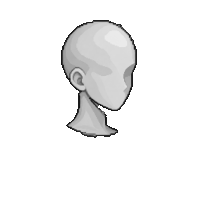
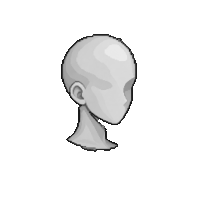
12 male hairstyles as hair value maps fitted to the new base head
Heads moved 14 px down (skull top y=34) so tall hair fits the 200x200 canvas.

Claude-Session: https://claude.ai/code/session_01M8ejkLTav7LEMdtajuWjkN

Changed region(s): [[0.3, 0.09, 0.69, 0.78], [0.51, 0.24, 0.54, 0.27]]

diff --git a/art_source/new_art/portraits/process_hair.py b/art_source/new_art/portraits/process_hair.py
@@ -1,0 +1,135 @@
+"""Cut hairstyles out of a ChatGPT hair sheet (4x3 grid, grayscale hair on a flat green mannequin head, white
+background) and fit each one onto the new base head (<sex>_head_skin.png) as a 200x200 hair value map.
+
+Usage: python3 process_hair.py m    (reads source/hair_m_sheet.png, writes <sex>_hair_<style>.png + preview)
+
+How it works
+- Hair = pixels that are neither white background nor green mannequin, minus the mannequin's own black outline
+  (dark pixels touching both the green head and the white background).
+- Alignment: the mannequin is the same in every cell. Its ear-to-face width and chin are matched to the base head
+  (same landmarks measured on <sex>_head_skin.png), so every style lands on the head the game uses.
+- Values are stretched to the legacy hair convention (full 0-255 range, ~median 150-170) with one stretch per sheet,
+  so styles keep the same brightness relative to each other.
+"""
+import os, sys, json, numpy as np
+from PIL import Image
+from scipy import ndimage as ndi
+
+HERE = os.path.dirname(os.path.abspath(__file__))
+ROOT = os.path.join(HERE, '..', '..', '..')
+STYLES = {'m': ['messy', 'sidepart', 'spiky', 'crewcut', 'slicked', 'shaggy', 'ponytail', 'long',
+                'topknot', 'braided_mohawk', 'wild_mane', 'knight_cut'],
+          'f': ['long', 'ponytail', 'bob', 'braids', 'wavy', 'pixie', 'bun', 'crown_braid',
+                'side_braid', 'twin_buns', 'curly_mane', 'warrior_halfup']}
+
+
+def runs(m, gap=5):
+    idx = np.where(m)[0]
+    sp = np.split(idx, np.where(np.diff(idx) > gap)[0] + 1)
+    return [(int(s[0]), int(s[-1])) for s in sp if len(s) > 20]
+
+
+def landmarks(head):
+    """ear-back x, face-front x and chin y of a head mask (green mannequin or base head skin)."""
+    ys, xs = np.where(head)
+    x0, x1 = xs.min(), xs.max()
+    front = xs > x1 - 0.12 * (x1 - x0)                   # face front columns
+    chin = ys[front].max()
+    # ear back: leftmost head pixel above the chin (the neck below the chin may stick out further back)
+    above = ys < chin - 0.15 * (chin - ys.min())
+    ear = xs[above].min()
+    return float(ear), float(x1), float(chin)
+
+
+def main(sex):
+    a = np.asarray(Image.open(os.path.join(HERE, 'source', f'hair_{sex}_sheet.png')).convert('RGB')).astype(int)
+    r, g, b = a[..., 0], a[..., 1], a[..., 2]
+    v = a.mean(2)
+    green = (g - r > 50) & (g - b > 50)                 # any shade of the green mannequin
+    white = v > 238
+    # cell bounds from the green mannequin columns/rows
+    cx = runs(green.any(0)); cy = runs(green.any(1))
+    xb = [0] + [(cx[i][1] + cx[i + 1][0]) // 2 for i in range(len(cx) - 1)] + [a.shape[1]]
+    yb = [0] + [(cy[i][1] + cy[i + 1][0]) // 2 for i in range(len(cy) - 1)] + [a.shape[0]]
+    assert len(xb) == 5 and len(yb) == 4, (cx, cy)
+
+    base = np.asarray(Image.open(os.path.join(HERE, f'{sex}_head_skin.png')))
+    b_ear, b_front, b_chin = landmarks(base[..., 3] > 0)
+
+    # one value stretch for the whole sheet
+    hair_all = ~white & ~green & ~ndi.binary_dilation(green, iterations=2)
+    lo, hi = np.percentile(v[hair_all], [1, 99.5])
+
+    # hair blobs are assigned to the nearest mannequin over the whole sheet (tall hair crosses cell lines)
+    labm, nm = ndi.label(green); szm = ndi.sum(green, labm, range(1, nm + 1))
+    heads = [i + 1 for i in np.argsort(-szm)[:12]]
+    cents = [ndi.center_of_mass(labm == h) for h in heads]
+    order = sorted(range(12), key=lambda i: (round(cents[i][0] / 200), cents[i][1]))   # rows, then columns
+    heads = [heads[i] for i in order]
+    mannall = [ndi.binary_fill_holes(labm == h) for h in heads]
+    dist = np.stack([ndi.distance_transform_edt(~m) for m in mannall])
+    owner = np.argmin(dist, 0)
+    near_g_all = ndi.binary_dilation(green, iterations=6); near_w_all = ndi.binary_dilation(white, iterations=6)
+    m_out_all = near_g_all & near_w_all & ~white & (v < 120)
+    hair_glob = ~white & ~ndi.binary_dilation(green, iterations=1) & ~m_out_all
+    for m in mannall: hair_glob &= ~m
+    lab, n = ndi.label(hair_glob); sz = ndi.sum(hair_glob, lab, range(1, n + 1))
+    blob_owner = ndi.labeled_comprehension(owner, lab, range(1, n + 1), lambda x: np.bincount(x).argmax(), int, -1)
+
+    out = {}
+    for k, style in enumerate(STYLES[sex]):
+        # drop the mannequin's inner jaw/neck lines: thin blobs that are almost entirely dark
+        dark_frac = ndi.mean(v < 100, lab, range(1, n + 1))
+        keep = [i + 1 for i in range(n) if sz[i] > 60 and blob_owner[i] == k and dark_frac[i] < 0.7]
+        hair_full = np.isin(lab, keep)
+        ys_, xs_ = np.where(hair_full | mannall[k])
+        sl = (slice(ys_.min(), ys_.max() + 1), slice(xs_.min(), xs_.max() + 1))   # crop to this head + its hair
+        cg, cw, cv = green[sl], white[sl], v[sl]
+        mann = mannall[k][sl]; hair = hair_full[sl]
+        # alignment: mannequin landmarks -> base head landmarks
+        m_ear, m_front, m_chin = landmarks(mann | ndi.binary_dilation(mann, iterations=3) & (cv < 120))
+        s = (b_front - b_ear) / (m_front - m_ear)
+        tx, ty = b_front - m_front * s, b_chin - m_chin * s
+        if ty < 0: print(f'  {style}: {-ty:.0f} px of hair above the canvas top')
+        val = np.clip((cv - lo) / (hi - lo) * 255, 0, 255)
+        H, W = cv.shape
+        Wn, Hn = round(W * s), round(H * s)
+        pv = np.asarray(Image.fromarray((val * hair).astype(np.float32)).resize((Wn, Hn), Image.BOX))
+        pm = np.asarray(Image.fromarray(hair.astype(np.float32)).resize((Wn, Hn), Image.BOX))
+        img = np.zeros((200, 200, 4), np.uint8)
+        ox, oy = int(round(tx)), int(round(ty))
+        ys0, xs0 = max(0, oy), max(0, ox)
+        ys1, xs1 = min(200, oy + Hn), min(200, ox + Wn)
+        sv, sm = pv[ys0 - oy:ys1 - oy, xs0 - ox:xs1 - ox], pm[ys0 - oy:ys1 - oy, xs0 - ox:xs1 - ox]
+        gray = np.where(sm > 0, sv / np.maximum(sm, 1e-6), 0).astype(np.uint8)
+        for c in range(3): img[ys0:ys1, xs0:xs1, c] = gray
+        img[ys0:ys1, xs0:xs1, 3] = np.where(sm > 0.45, 255, 0)
+        Image.fromarray(img).save(os.path.join(HERE, f'{sex}_hair_{style}.png'))
+        out[style] = img
+        a3 = img[..., 3]; yy, xx = np.where(a3 > 0)
+        clip = 'CLIPPED' if (xx.min() == 0 or yy.min() == 0 or xx.max() == 199 or yy.max() == 199) else ''
+        print(f'{sex}_hair_{style}: scale {s:.3f} bbox {xx.min()},{yy.min()}-{xx.max()},{yy.max()} {clip}')
+
+    # preview: each style on the base head, three hair colours
+    pal = json.load(open(os.path.join(ROOT, 'portraits', 'palettes.json')))
+    hx = lambda h: [int(h[i:i + 2], 16) for i in (1, 3, 5)]
+    def tint(img, ramp):
+        rr = np.array([hx(c) for c in ramp], float); t = img[..., 0] / 255 * (len(rr) - 1)
+        l = np.floor(t).astype(int).clip(0, len(rr) - 2); f = (t - l)[..., None]
+        return Image.fromarray(np.dstack([rr[l] * (1 - f) + rr[l + 1] * f, img[..., 3]]).astype(np.uint8))
+    hairs = list(pal['hair'].values())
+    skin = tint(base, pal['skin']['tan'])
+    sheet = Image.new('RGBA', (200 * 6, 200 * 4), (52, 56, 66, 255))
+    for k, style in enumerate(STYLES[sex]):
+        c = Image.new('RGBA', (200, 200), (52, 56, 66, 255)); c.alpha_composite(skin)
+        c.alpha_composite(tint(out[style], hairs[(k * 3) % len(hairs)]))
+        sheet.paste(c, ((k % 6) * 200, (k // 6) * 200))
+    # second half: each style untinted (raw value map) on grey, to check the cut
+    for k, style in enumerate(STYLES[sex]):
+        c = Image.new('RGBA', (200, 200), (120, 160, 120, 255)); c.alpha_composite(Image.fromarray(out[style]))
+        sheet.paste(c, ((k % 6) * 200, 400 + (k // 6) * 200))
+    sheet.save(os.path.join(HERE, f'preview_hair_{sex}.png'))
+
+
+if __name__ == '__main__':
+    main(sys.argv[1] if len(sys.argv) > 1 else 'm')

diff --git a/art_source/new_art/portraits/process_heads.py b/art_source/new_art/portraits/process_heads.py
@@ -16,7 +16,7 @@ from scipy import ndimage as ndi
 
 HERE = os.path.dirname(os.path.abspath(__file__))
 ROOT = os.path.join(HERE, '..', '..', '..')
-SKULL_TOP, CHIN, CX = 20, 111, 99          # legacy head placement on the 200x200 canvas
+SKULL_TOP, CHIN, CX = 34, 125, 99          # skull top y=34 leaves room for tall hair (14 px lower than legacy)
 
 
 def cut(g, x0, x1):

diff --git a/art_source/new_art/README.md b/art_source/new_art/README.md
@@ -5,8 +5,16 @@
 - `process_heads.py` - cuts each head out of the glow background and writes the game layers.
 - `m_head_skin.png`, `f_head_skin.png` - 200x200 **skin value maps** (grayscale, the game tints them with the
   5 skin ramps in `portraits/palettes.json`). Same convention as the legacy `*_skin.png` parts: outline kept as the
-  darkest values, mid skin ~204, skull top y=20, chin y~111, centred x~99, so they sit on the existing bodies.
+  darkest values, mid skin ~204, skull top y=34, chin y~125, centred x~99 (14 px lower than the legacy heads so tall hair fits inside the canvas; new bodies must use this placement).
   Both heads use one scale (set by the male head), so the female head is slightly smaller.
 - `preview_heads.png` - both heads in all 5 skin tones, and over the legacy Soldier bust.
+
+- `source/hair_m_sheet.png` + `process_hair.py m` - 12 male hairstyles (ChatGPT sheet: grayscale hair on a green
+  mannequin). Each style is cut out, the mannequin and its outline removed, scaled and placed on `m_head_skin.png`
+  by matching the mannequin's ear, face front and chin. Output `m_hair_<style>.png`: 200x200 **hair value maps**
+  (tinted with the 10 hair ramps). Styles: messy, sidepart, spiky, crewcut, slicked, shaggy, ponytail, long
+  (the game's existing 8) + topknot, braided_mohawk, wild_mane, knight_cut (new).
+  `preview_hair_m.png`: each style tinted on the base head, then the raw value maps.
+- Female hair: same script with `f` once `source/hair_f_sheet.png` exists.
 
 Not yet in the game: the faces (eyes, brows, mouth per expression) and hair still have to be drawn for these heads.
